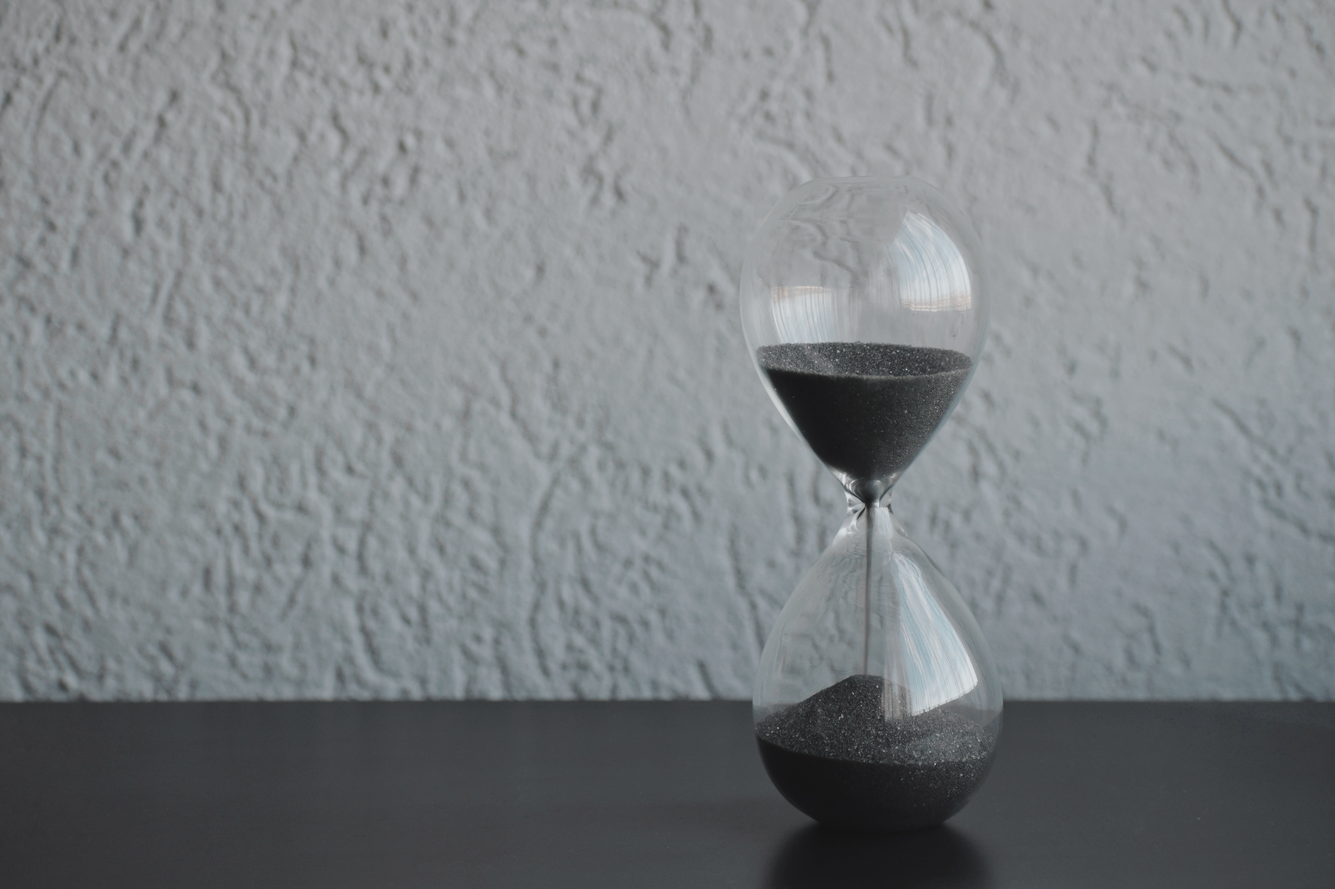
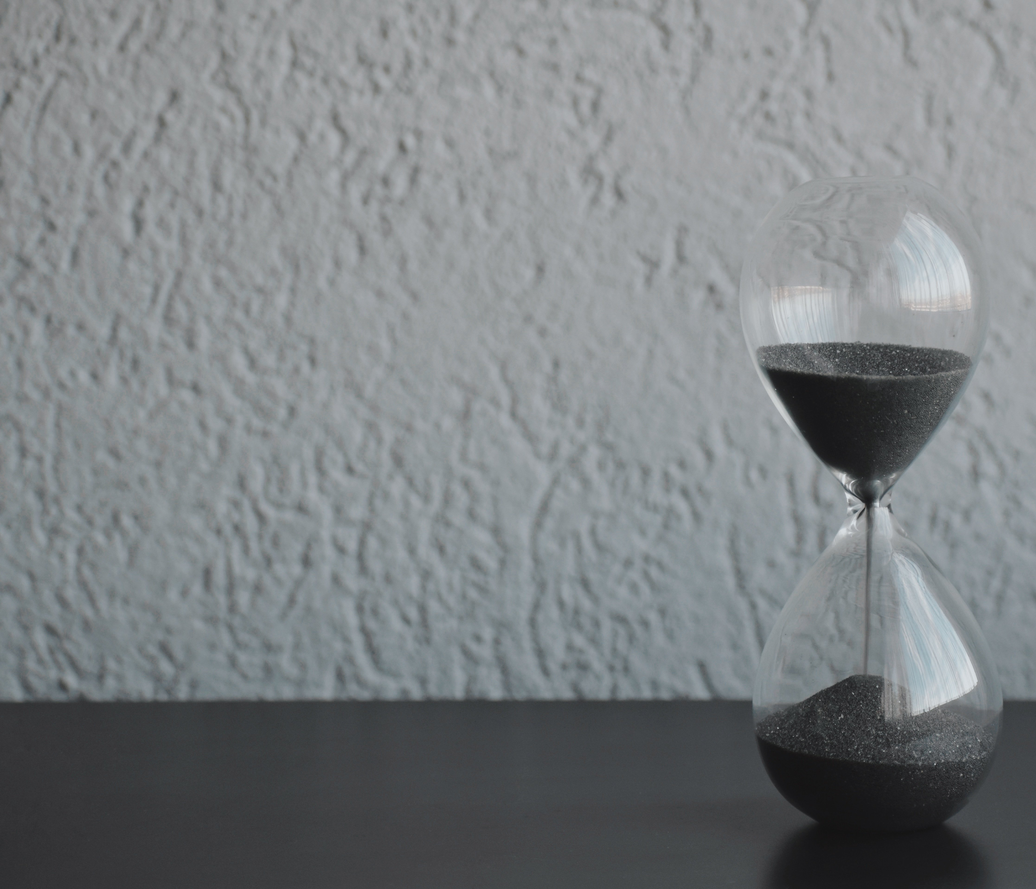
Increases text color contrast

diff --git a/style.css b/style.css
@@ -1,6 +1,6 @@
 body {
   /* margin: 2em; */
-  background-image: url("./clock.jpg");
+  background-image: url("./522153.jpg");
   background-size: cover;
   background-position: center center;
 
@@ -10,6 +10,7 @@ body {
   align-items: center;
   justify-content: space-between;
   min-height: 90vh;
+  color: #55ceb0;
 }
 .countdown-dashboard {
   display: flex;
